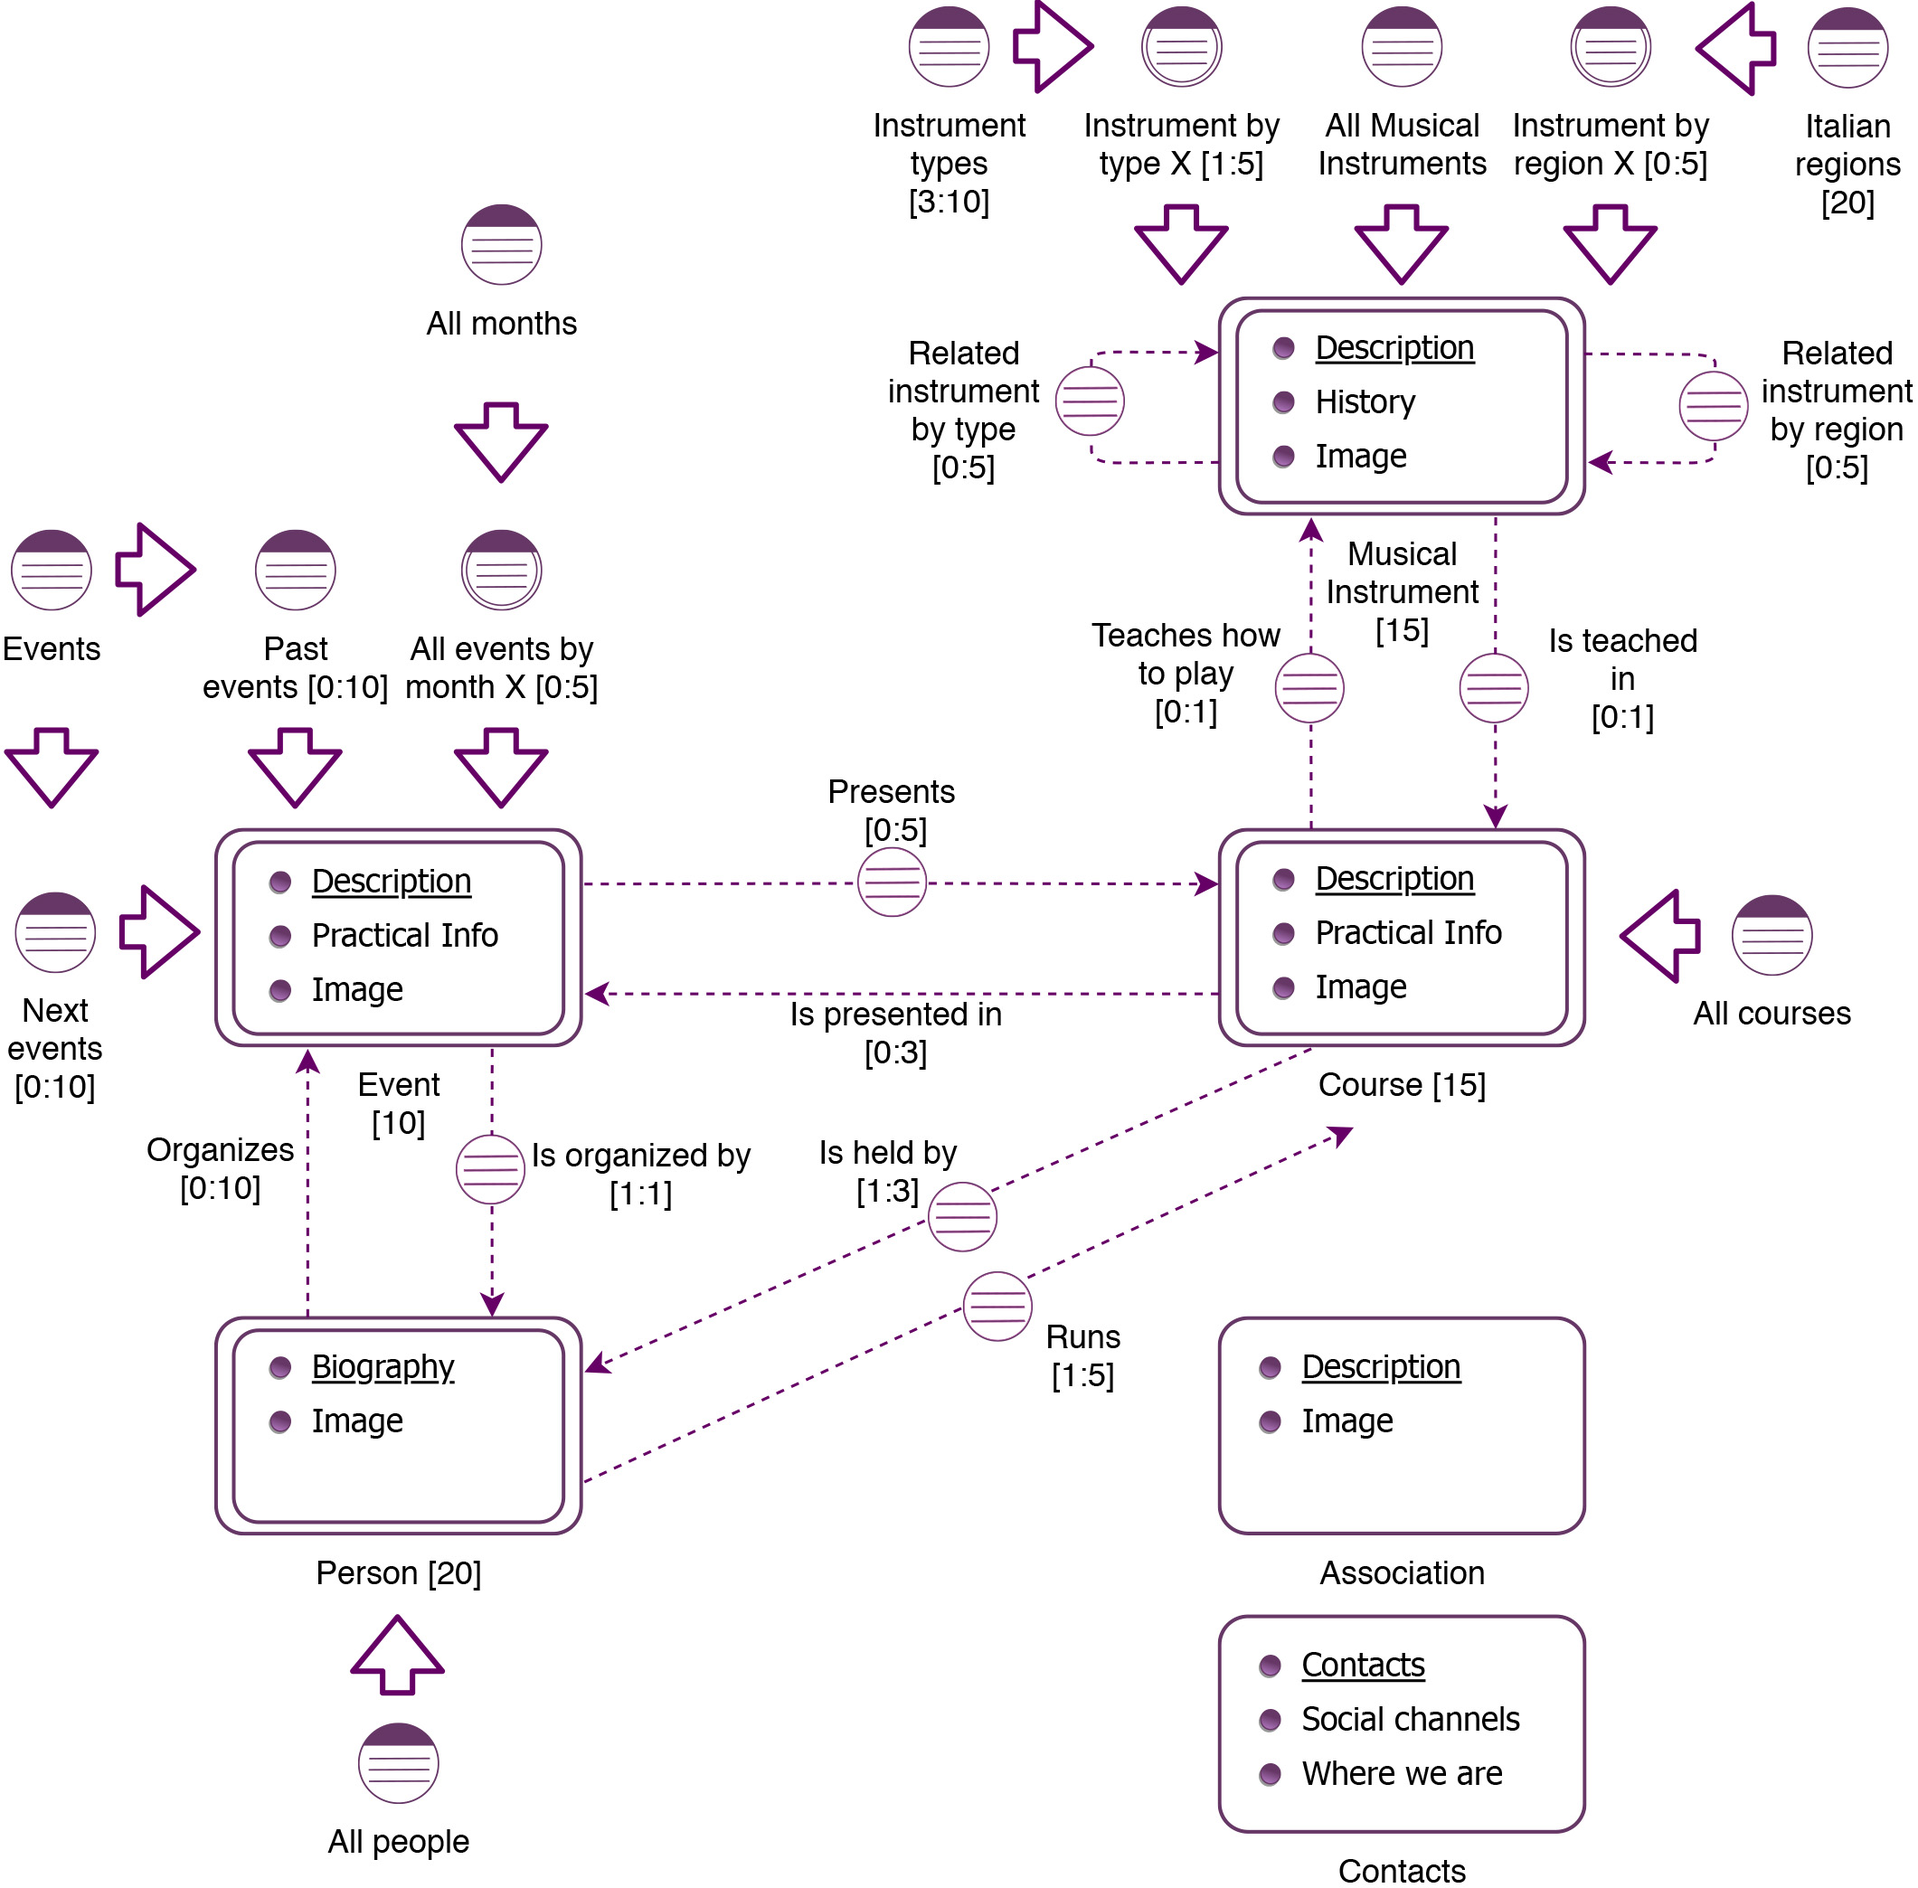
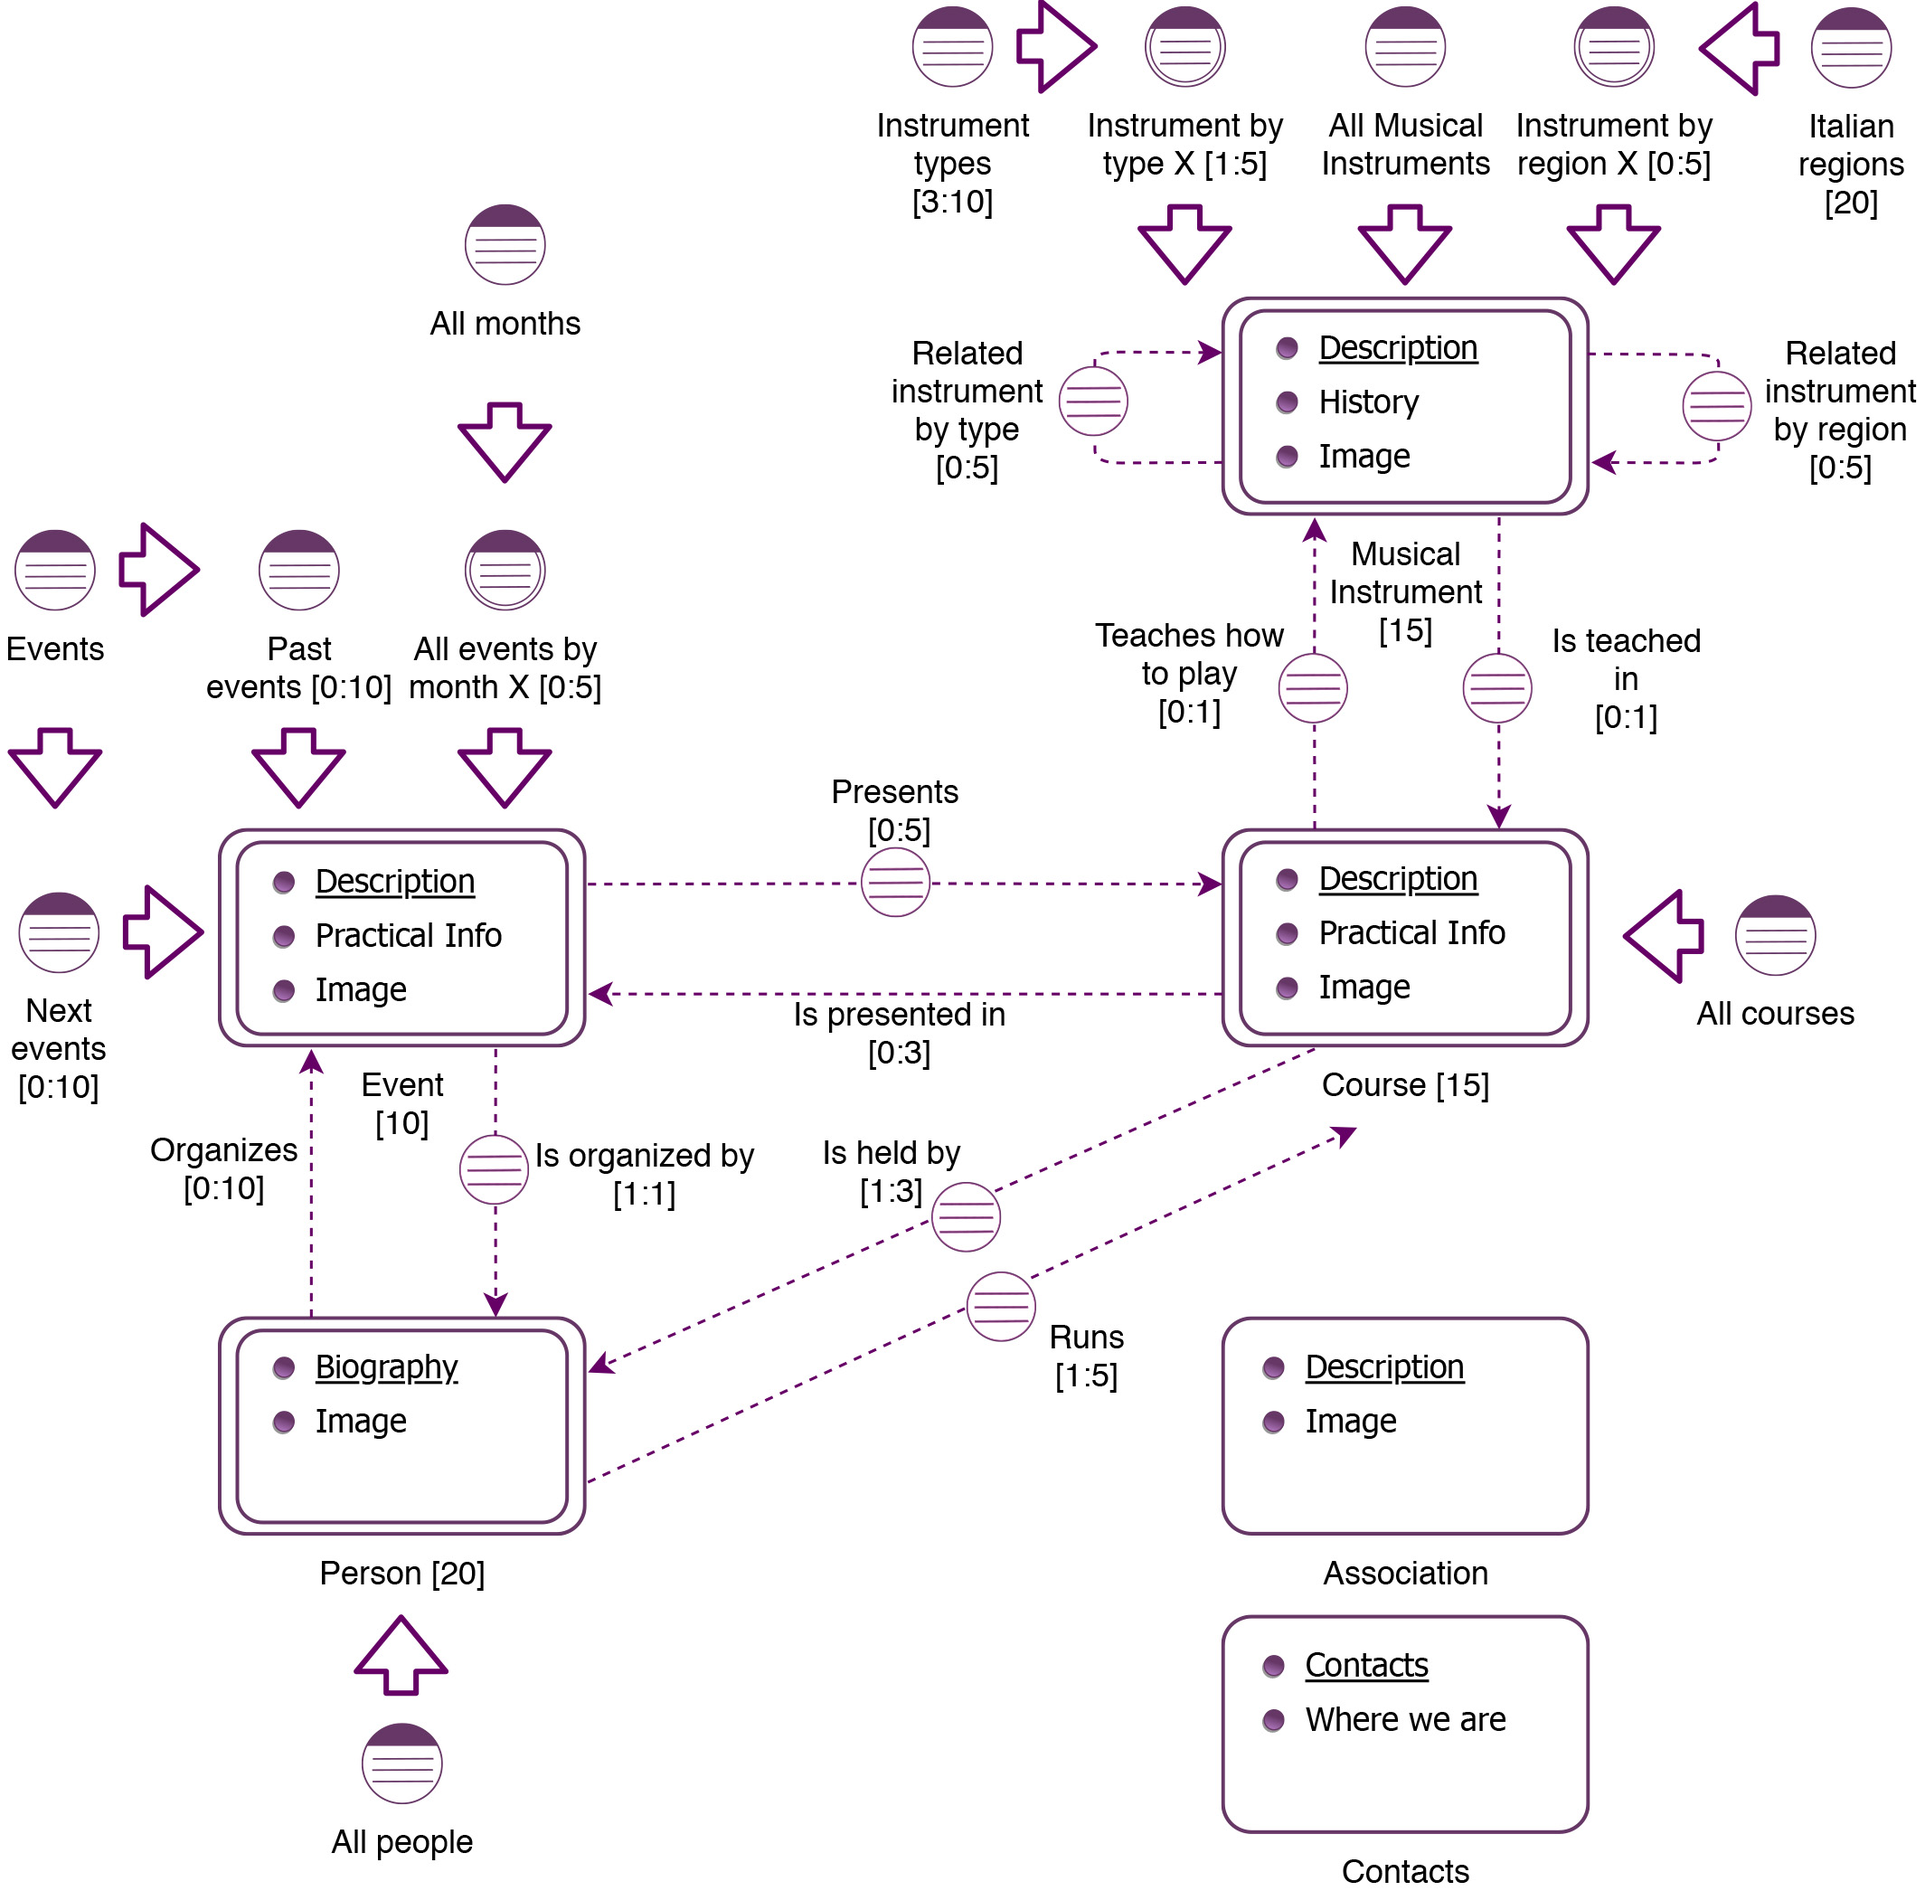
Remove Social Channels from Contacts

diff --git a/design-document/2.DesignInTheLarge/3.L-IDM/L-IDM.tex b/design-document/2.DesignInTheLarge/3.L-IDM/L-IDM.tex
@@ -3,6 +3,6 @@
 \section{L-IDM}
 	\textit{Musical Instrument} contains three dialog acts: the \textit{Description} explains how an instrument works, the \textit{History} is a short explanation about its birth and usage on the years, and the \textit{Image} is a graphic representation of the \textit{Musical Instrument}. \textit{Event} and \textit{Course} are represented by similar dialog acts: the \textit{Description}, the \textit{Practical Info}, that contains information about their schedules (specific date for \textit{Event}, periodic days for \textit{Course}), and the \textit{Image}.\\
 	\textit{Person} is composed by her \textit{Biography} and an \textit{Image} that is her profile picture. From an \textit{Event} it can be useful to check its organizer, to ask her for more information, but the other way around is not important, so there is only one introductory act between \textit{Person} and \textit{Event}.\\
-	\textit{Association} topic has a \textit{Description} and an \textit{Image}; \textit{Contacts} topic is composed by \textit{Contacts}, that represents the phone numbers and the email to contact the Association, \textit{Social channels} and \textit{Where we are}, with the address of the office and its map.
-	\image{11.4 cm}{IDM/L-IDM.jpg}{L-IDM}{l-idm}
+	\textit{Association} topic has a \textit{Description} and an \textit{Image}; \textit{Contacts} topic is composed by \textit{Contacts}, that represents the phone numbers and the email to contact the Association, and \textit{Where we are}, with the address of the office and its map.
+	\image{12 cm}{IDM/L-IDM.jpg}{L-IDM}{l-idm}
 \end{document}

diff --git a/design-document/2.DesignInTheLarge/4.P-IDM/P-IDM.tex b/design-document/2.DesignInTheLarge/4.P-IDM/P-IDM.tex
@@ -5,6 +5,6 @@
 	\newline
 	All the introductory pages use an index pattern to link the single pages of their group. For \textit{Person}, \textit{Event} and \textit{Course} kinds of topic, this is the only way to navigate among their elements. \textit{Musical Instruments}, instead, are linked to the related instruments by an all-to-all pattern: each one has a direct link to all its related \textit{Musical Instruments}.
 	\newline
-	\textit{Contacts} topic is divided into two different pages (or tabs) linked with an all-to-all pattern (they are simply linked together): the first one contains \textit{Contacts} with \textit{Social channels}, the other one \textit{Where we are}.
-	\image{14 cm}{IDM/P-IDM.jpg}{P-IDM}{p-idm}
+	\textit{Contacts} topic is divided into two different pages (or tabs) linked with an all-to-all pattern (they are simply linked together): the first one contains \textit{Contacts}, the other one \textit{Where we are}.
+	\image{15 cm}{IDM/P-IDM.jpg}{P-IDM}{p-idm}
 \end{document}

diff --git a/design-document/3.DesignInTheSmall/2.Home/Home.tex b/design-document/3.DesignInTheSmall/2.Home/Home.tex
@@ -3,7 +3,6 @@
 \newpage
 \section{Home page}
 	At the beginning of the \textit{Home page} an image slider has a \textit{Find more} link to the \textit{Association} page. Below, three row sections are linked to the most used topics of the website: the first one is a link to the very next \textit{Event}, to invite users to participate and let them know what are the news of \textit{Lemon Peel} association; the second section is a link to the introductory page of \textit{Musical Instruments}, where it's possibile to deepen all of them; the last section is an invite to join the association, and it links to the \textit{Contacts} page to let the user send a message to the administrative office.
-	\newline
 	\image{\textheight}{Wireframes/HomePage.png}{Home page wireframe}{homepage-wireframe}
 	\image{\textheight}{screenshots/HomePage.png}{Home page screenshot}{homepage-screenshot}
 \end{document}

diff --git a/design-document/DD.tex b/design-document/DD.tex
@@ -61,7 +61,7 @@
 			\label{fig:PolitecnicoLogo}
 			\large \\[2ex]M.Sc. Computer Science and Engineering\\
 			\large Hypermedia Applications Project\\[12ex]
-			\includegraphics[width =\linewidth, height = 4cm, keepaspectratio]{LemonPeelLogo.png}\\[12ex]
+			\includegraphics[width =\linewidth, height = 4cm, keepaspectratio]{LemonPeelLogo.png}\\[13ex]
 
 			\huge Design Document\\[4ex]
 
